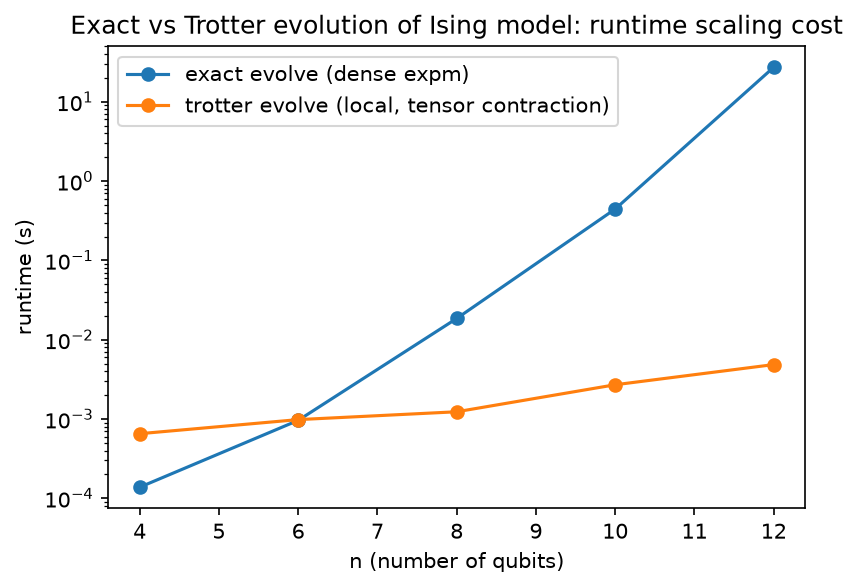
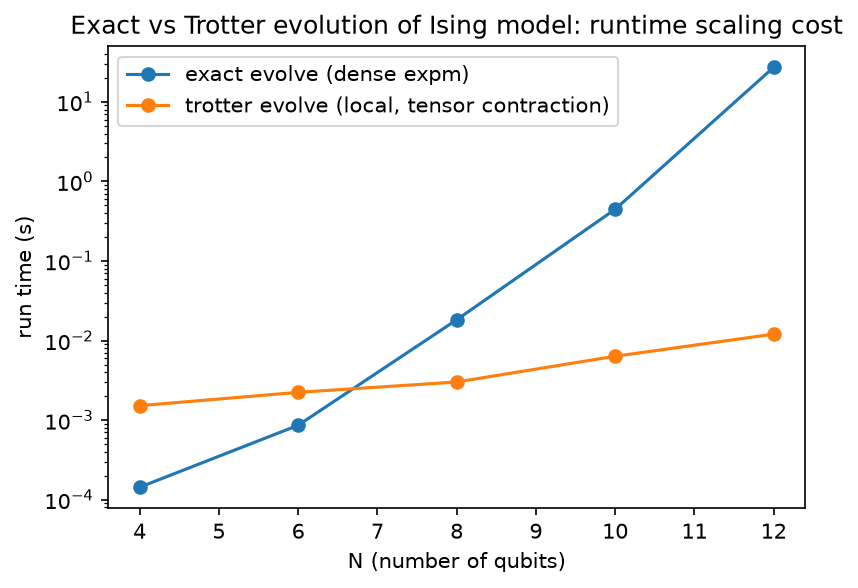
edit README

diff --git a/README.md b/README.md
@@ -1,17 +1,17 @@
 # Hamiltonian Simulation
 
 Exact and Trotter-Suzuki simulation of the transverse-field Ising
-model, and error/runtime analysis verified against theory.
+model, with error and runtime analysis benchmarked against theory.
 
-## Why this repo
+## Objective
 
 The aim is to build toward simulating open quantum systems. As a
-concrete first step, this repo implements and verifies Hamiltonian
-simulation via Trotterization, including an efficient, local
-interaction implementation that demonstrates why the method scales
-far better than dense matrix exponential simulation, and sets up the
-connection to the genuine polynomial-time advantage Trotterization
-provides on quantum hardware.
+concrete first step, this repository implements and benchmarks
+Hamiltonian simulation using Trotterization. The local interaction
+implementation from Trotter product formula scales far better than the
+dense matrix exponential simulation. The result highlights the
+connection to the polynomial-time advantage Trotterization provides on
+quantum hardware.
 
 ## Result
 
@@ -27,11 +27,11 @@ For a first-order product formula, Lloyd (1996)	bounds the error by
 
 where $U = e^{-iHt}$ is the exact evolution operator, and $U_{\rm
 trott} = (e^{-iH_1t/n} \cdots e^{-iH_lt/n})^n$ is the $n$-step Trotter
-product. Each local operator $e^{-iH_it/n}$ acts on a Hilbert space of only
-$m=4$ dimensions (two neighboring qubits), rather than the full $2^N$
-dimensional space of the whole system of N qubits in the full hilbert
-space in $H$. This locality is what the efficient implementation
-exploits directly, via tensor contraction rather than dense matrix
+product. Each local operator $e^{-iH_it/n}$ acts on a Hilbert space of
+only $m=4$ dimensions (of nearest neighbors), rather than the full
+$2^N$ dimensional Hilbert space in $H$, of the whole system of N
+qubits. This locality is what the efficient implementation exploits
+directly, via tensor contraction rather than dense matrix
 exponentiation.
 
 The measured error tracks the bound's scaling closely; both
@@ -45,29 +45,32 @@ bound](docs/figures/error_scaling.png) -->
   <img src="docs/figures/error_scaling.png" width="500">
 </div>
 
-**The efficient (tensor-contraction) implementation is dramatically
-faster.**
+**The efficient (tensor-contraction) Trotter implementation is
+dramatically faster.**
+
+At $N=12$, exact matrix exponentiation of the systems evolution takes
+$\approx 27 {\rm s}$ while the evolution via Trotterization takes ~5
+ms, roughly a 5400x speedup. The exact method grows approximately as
+$e^{(1.53)N}$, which is somewhat less than the expected cubic scaling
+$e^{ln(8)N}$, with cost $\mathcal{O}(8^N)$, for dense matrix
+exponentiation. (The discrepancy plausibly reflects optimized linear
+algebra routines in scipy's module: `expm`, rather than a departure
+from the theoretical asymptotic.) The implementation of Trotter
+product formula costs $\mathcal{O}(N \cdot 2^N)$ per trotter step,
+since a classical computer must store the full $\mathcal{O}(2^N)$
+dimensional state. Both algorithms are exponential in $N$, but
+trotterization has a much smaller effective exponent and thus yields
+the dramatic speedup observed in the Figure on runtime scaling cost.
 
 <div align="center">
   <img src="docs/figures/runtime_scaling.png" width="500">
 </div>
 <!-- ![Runtime scaling](docs/figures/runtime_scaling.png) -->
 
-At $N=12$, exact matrix exponentiation takes ~27 s while the Trotter
-step takes ~5 ms, roughly a 5400x speedup. The exact method grows
-approximately as $e^{(1.53)N}$, which is somewhat less than the
-expected cubic scaling $e^{ln(8)N}$ with cost $\mathcal{O}(8^N)$ for
-dense matrix exponentiation (plausibly reflecting optimized linear
-algebra routines in scipy's `expm` rather than a departure from the
-theoretical asymptotic). The local implementation costs $\mathcal{O}(N
-\cdot 2^N)$ per trotter step, since a classical computer must store
-the full $\mathcal{O}(2^N)$ dimensional state. Both algorithms are
-exponential in $N$, but trotterization's much smaller effective
-exponent explains the dramatic speedup observed here. The genuine
-polynomial-time advantage Trotterization is known for is specific to
-real quantum hardware: a single local gate costs $\mathcal{O}(1)$,
-independent of $N$, and a full Trotter step needs only
-$\mathcal{O}(N)$ such gates, polynomial overall, not exponential.
+The genuine polynomial-time advantage Trotterization is known for is
+specific to real quantum hardware, where a single local gate costs
+$\mathcal{O}(1)$, independent of $N$, and a full Trotter step needs
+only $\mathcal{O}(N)$ such gates, polynomial overall.
 
 ## Setup
 pip install -e .
